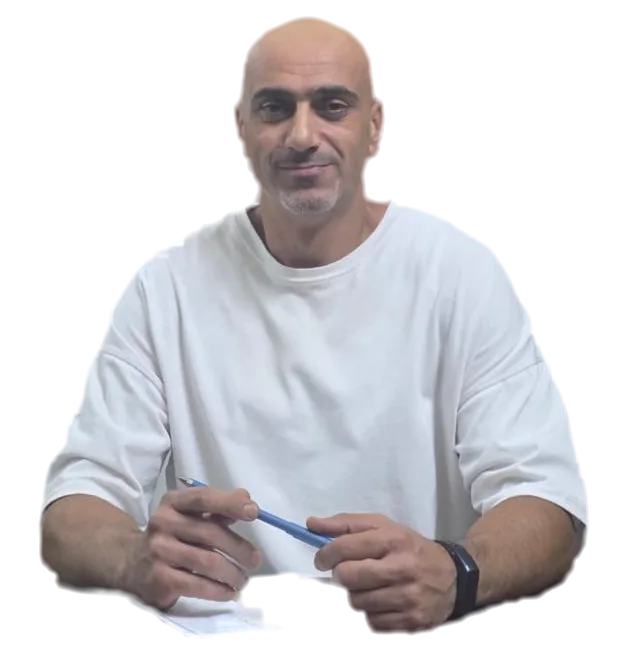
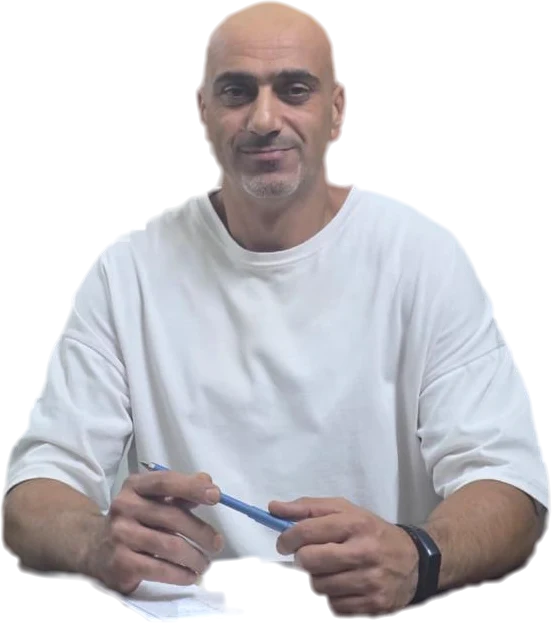
Show full coach photos in redesigned coach cards
Claude-Session: https://claude.ai/code/session_01RxEhNE1XfRK8e1vuwJkR2G

diff --git a/index.html b/index.html
@@ -180,20 +180,26 @@ section.block{padding-block:88px}
 
 /* coaches */
 .coaches{display:grid;grid-template-columns:repeat(2,1fr);gap:20px}
-.coach{position:relative;overflow:hidden;background:var(--coal);border:1px solid var(--charcoal);border-radius:14px;display:grid;grid-template-columns:42% 1fr;min-height:360px}
-.coach .photo{position:relative;background:radial-gradient(circle at 50% 70%,rgba(212,175,55,.35),transparent 65%);display:flex;align-items:flex-end;justify-content:center;overflow:hidden}
-.coach .photo img{width:100%;height:100%;object-fit:cover;object-position:top center}
-.coach .body{padding:28px 26px;display:flex;flex-direction:column;gap:12px;min-width:0}
-.coach .role{color:var(--gold);font-weight:700;font-size:14px}
-.coach h3{font-size:30px}
+.coach{position:relative;overflow:hidden;background:var(--coal);border:1px solid var(--charcoal);border-radius:16px;display:flex;flex-direction:column;min-width:0}
+.coach .photo{position:relative;height:460px;overflow:hidden;background:
+  radial-gradient(ellipse 70% 60% at 50% 78%,rgba(212,175,55,.42),transparent 70%),
+  linear-gradient(180deg,#1b1b1b,#101010)}
+.coach .photo::before{content:"";position:absolute;inset:0;background:url("assets/icon.svg") center 62%/78% no-repeat;opacity:.10}
+.coach .photo .sl{position:absolute;top:-40px;width:10px;height:300px;background:var(--gold);transform:rotate(28deg);inset-inline-end:14%}
+.coach .photo .sl+.sl{inset-inline-end:calc(14% + 26px);width:4px;opacity:.5}
+.coach .photo img{position:absolute;inset:auto 0 0 0;margin-inline:auto;height:94%;width:auto;max-width:100%;object-fit:contain;object-position:bottom center;filter:drop-shadow(0 18px 30px rgba(0,0,0,.6))}
+.coach .photo::after{content:"";position:absolute;inset:auto 0 0 0;height:38%;background:linear-gradient(180deg,transparent,var(--coal) 88%)}
+.coach .name{position:absolute;z-index:2;bottom:16px;inset-inline:24px}
+.coach .role{display:inline-block;background:var(--gold);color:var(--ink);font-weight:800;font-size:13px;padding:2px 10px;border-radius:5px;margin-bottom:6px}
+.coach h3{font-size:clamp(28px,3.4vw,38px);text-shadow:0 2px 14px rgba(0,0,0,.7)}
+.coach .body{padding:6px 24px 24px;display:flex;flex-direction:column;gap:12px;flex:1;min-width:0}
 .coach .cred{border-inline-start:3px solid var(--gold);padding-inline-start:12px;color:#E9E6DE;font-size:15px}
-.coach .cred .lat{display:block;color:var(--mute);font-size:14px}
+.coach .cred .lat{display:block;color:var(--mute);font-size:14px;text-align:right}
 .coach .extra{color:var(--mute);font-size:14px}
-.coach .contact{margin-top:auto;display:flex;flex-wrap:wrap;gap:10px;align-items:center}
+.coach .contact{margin-top:auto;display:flex;flex-wrap:wrap;gap:10px 16px;align-items:center}
 .coach .contact .btn{padding:10px 16px;font-size:15px}
 .coach .site{color:var(--gold);font-size:15px;text-decoration:none}
-@media (max-width:960px){.coaches{grid-template-columns:1fr}}
-@media (max-width:520px){.coach{grid-template-columns:1fr}.coach .photo{height:300px}}
+@media (max-width:860px){.coaches{grid-template-columns:1fr}.coach .photo{height:420px}}
 
 /* membership */
 .member{display:grid;grid-template-columns:1.2fr .8fr;gap:20px}
@@ -386,10 +392,8 @@ footer small{color:var(--mute);display:block;width:100%;font-size:13px}
     </div>
     <div class="coaches">
       <article class="coach">
-        <div class="photo"><img src="assets/coach-ammar.webp" alt="المدرب عمار ضاهر" loading="lazy"></div>
+        <div class="photo"><span class="sl" aria-hidden="true"></span><span class="sl" aria-hidden="true"></span><img src="assets/coach-ammar.webp" alt="المدرب عمار ضاهر"><div class="name"><span class="role">مدرب شخصي</span><h3>عمار ضاهر</h3></div></div>
         <div class="body">
-          <span class="role">مدرب شخصي</span>
-          <h3>عمار ضاهر</h3>
           <p class="cred">مدرب شخصي معتمد من أكاديمية IFBB الدولية<span class="lat">IFBB Academy · Dubai</span></p>
           <div class="contact">
             <a class="btn btn-gold" href="tel:+963933659784"><svg viewBox="0 0 24 24" fill="currentColor"><path d="M6.6 10.8a15.1 15.1 0 0 0 6.6 6.6l2.2-2.2a1 1 0 0 1 1-.25 11.4 11.4 0 0 0 3.6.57 1 1 0 0 1 1 1V20a1 1 0 0 1-1 1A17 17 0 0 1 3 4a1 1 0 0 1 1-1h3.5a1 1 0 0 1 1 1c0 1.25.2 2.45.57 3.57a1 1 0 0 1-.25 1z"/></svg><span class="num">+963 933 659 784</span></a>
@@ -397,10 +401,8 @@ footer small{color:var(--mute);display:block;width:100%;font-size:13px}
         </div>
       </article>
       <article class="coach">
-        <div class="photo"><img src="assets/coach-george.webp" alt="المدرب جورج موسى" loading="lazy"></div>
+        <div class="photo"><span class="sl" aria-hidden="true"></span><span class="sl" aria-hidden="true"></span><img src="assets/coach-george.webp" alt="المدرب جورج موسى"><div class="name"><span class="role">مدرب شخصي</span><h3>جورج موسى</h3></div></div>
         <div class="body">
-          <span class="role">مدرب شخصي</span>
-          <h3>جورج موسى</h3>
           <p class="cred">مدرب شخصي معتمد بالتدريب والتغذية الرياضية<span class="lat">IABC Certified</span></p>
           <p class="extra">تطبيق لتتبّع التقدّم، خاص بالمشتركين معه.</p>
           <div class="contact">
